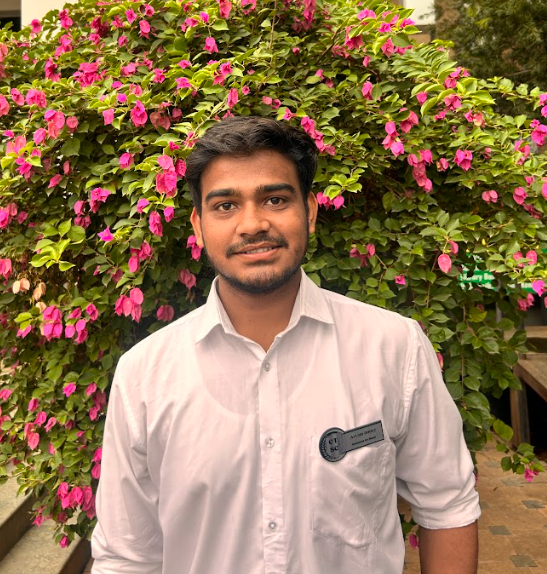
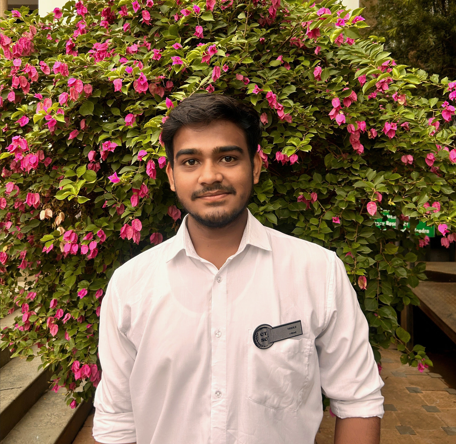
New Changes in Team Section

diff --git a/src/pages/Team.jsx b/src/pages/Team.jsx
@@ -160,7 +160,7 @@ function Team() {
     {
       'name': 'Mr. Swayam Thakur',
       'role': 'ACM Web Master',
-      'image': './committee/swayam_thakur.png'
+      'image': './committee/swayam_thakur.jpg'
     },
     {
       'name': 'Mr. Pratik Rai',
@@ -258,7 +258,7 @@ function Team() {
     {
       'name': 'Mr. Sakshat Keote',
       'role': 'EM Co-Head',
-      'image': './committee/sakshat_keote'
+      'image': './committee/sakshat_keote.png'
     },
     {
       'name': 'Ms. Varsha Kolekar',

diff --git a/src/components/OurSponsors.jsx b/src/components/OurSponsors.jsx
@@ -11,6 +11,7 @@ function OurSponsors() {
         { id: 6, name: "Apple", logo: "logo_apple.svg" },
         { id: 7, name: "Apple", logo: "logo_apple.svg" },
         { id: 8, name: "Apple", logo: "logo_apple.svg" },
+        { id: 9, name: "Grras", logo: "grras.png" },
     ];
 
     return (
